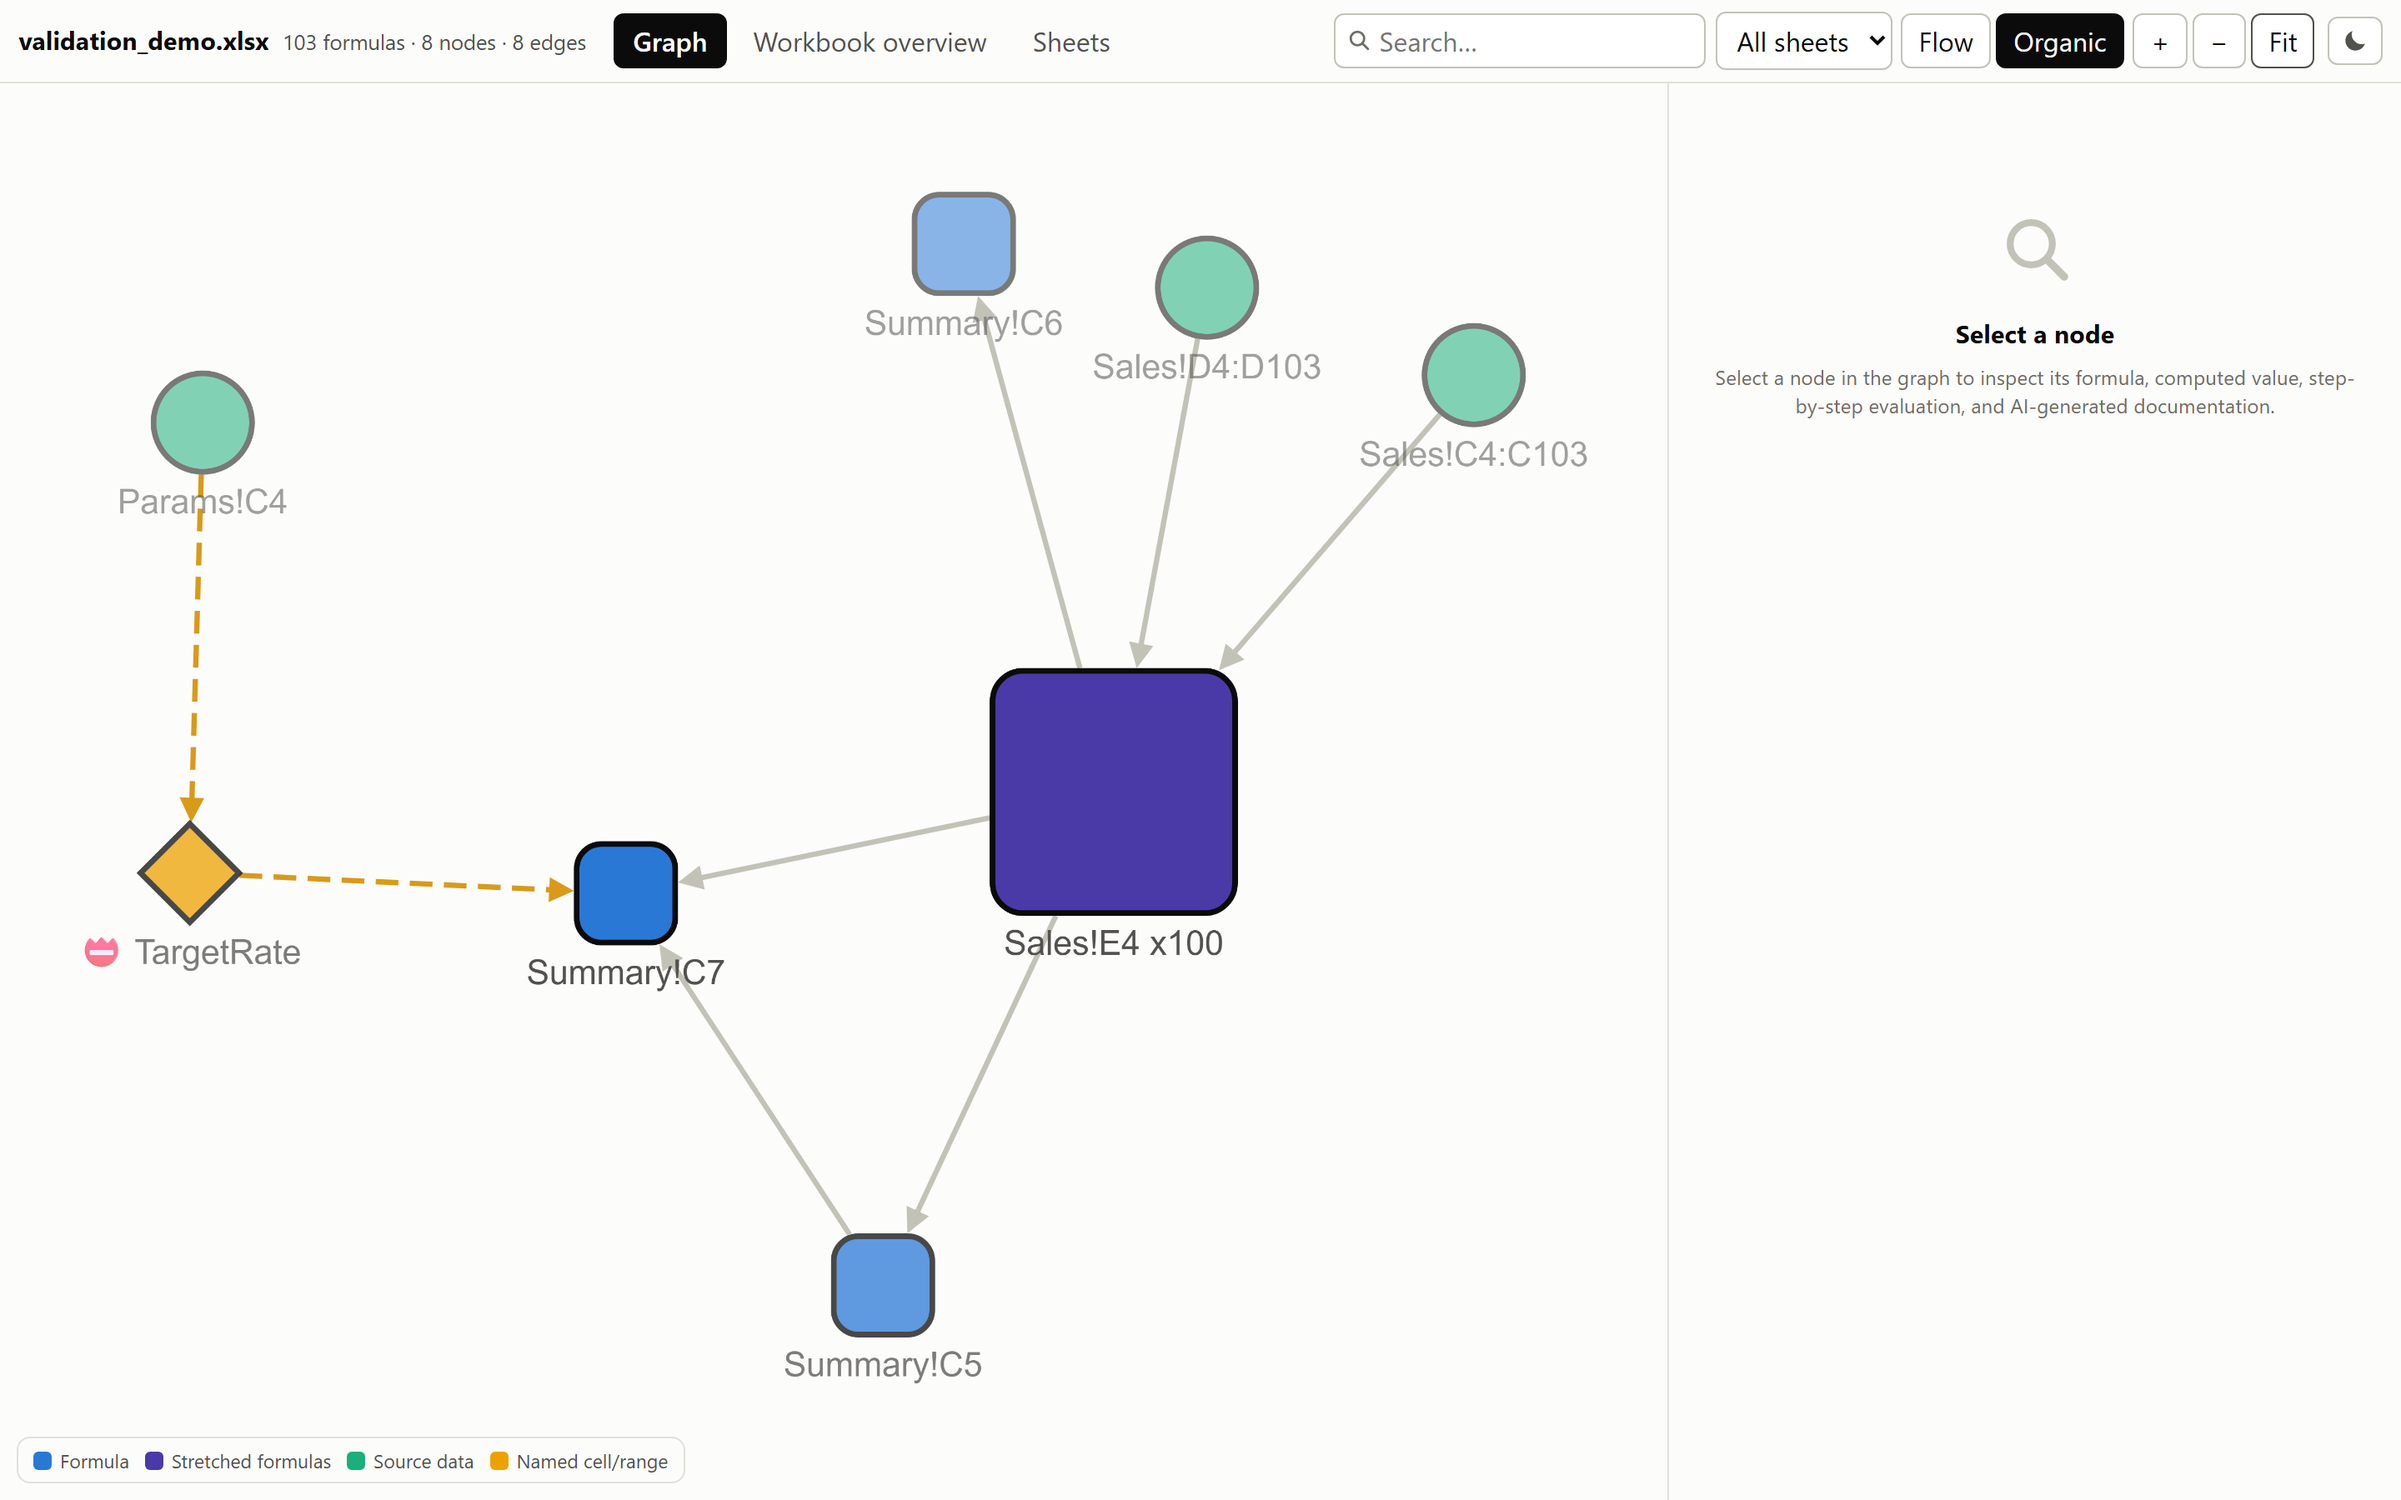
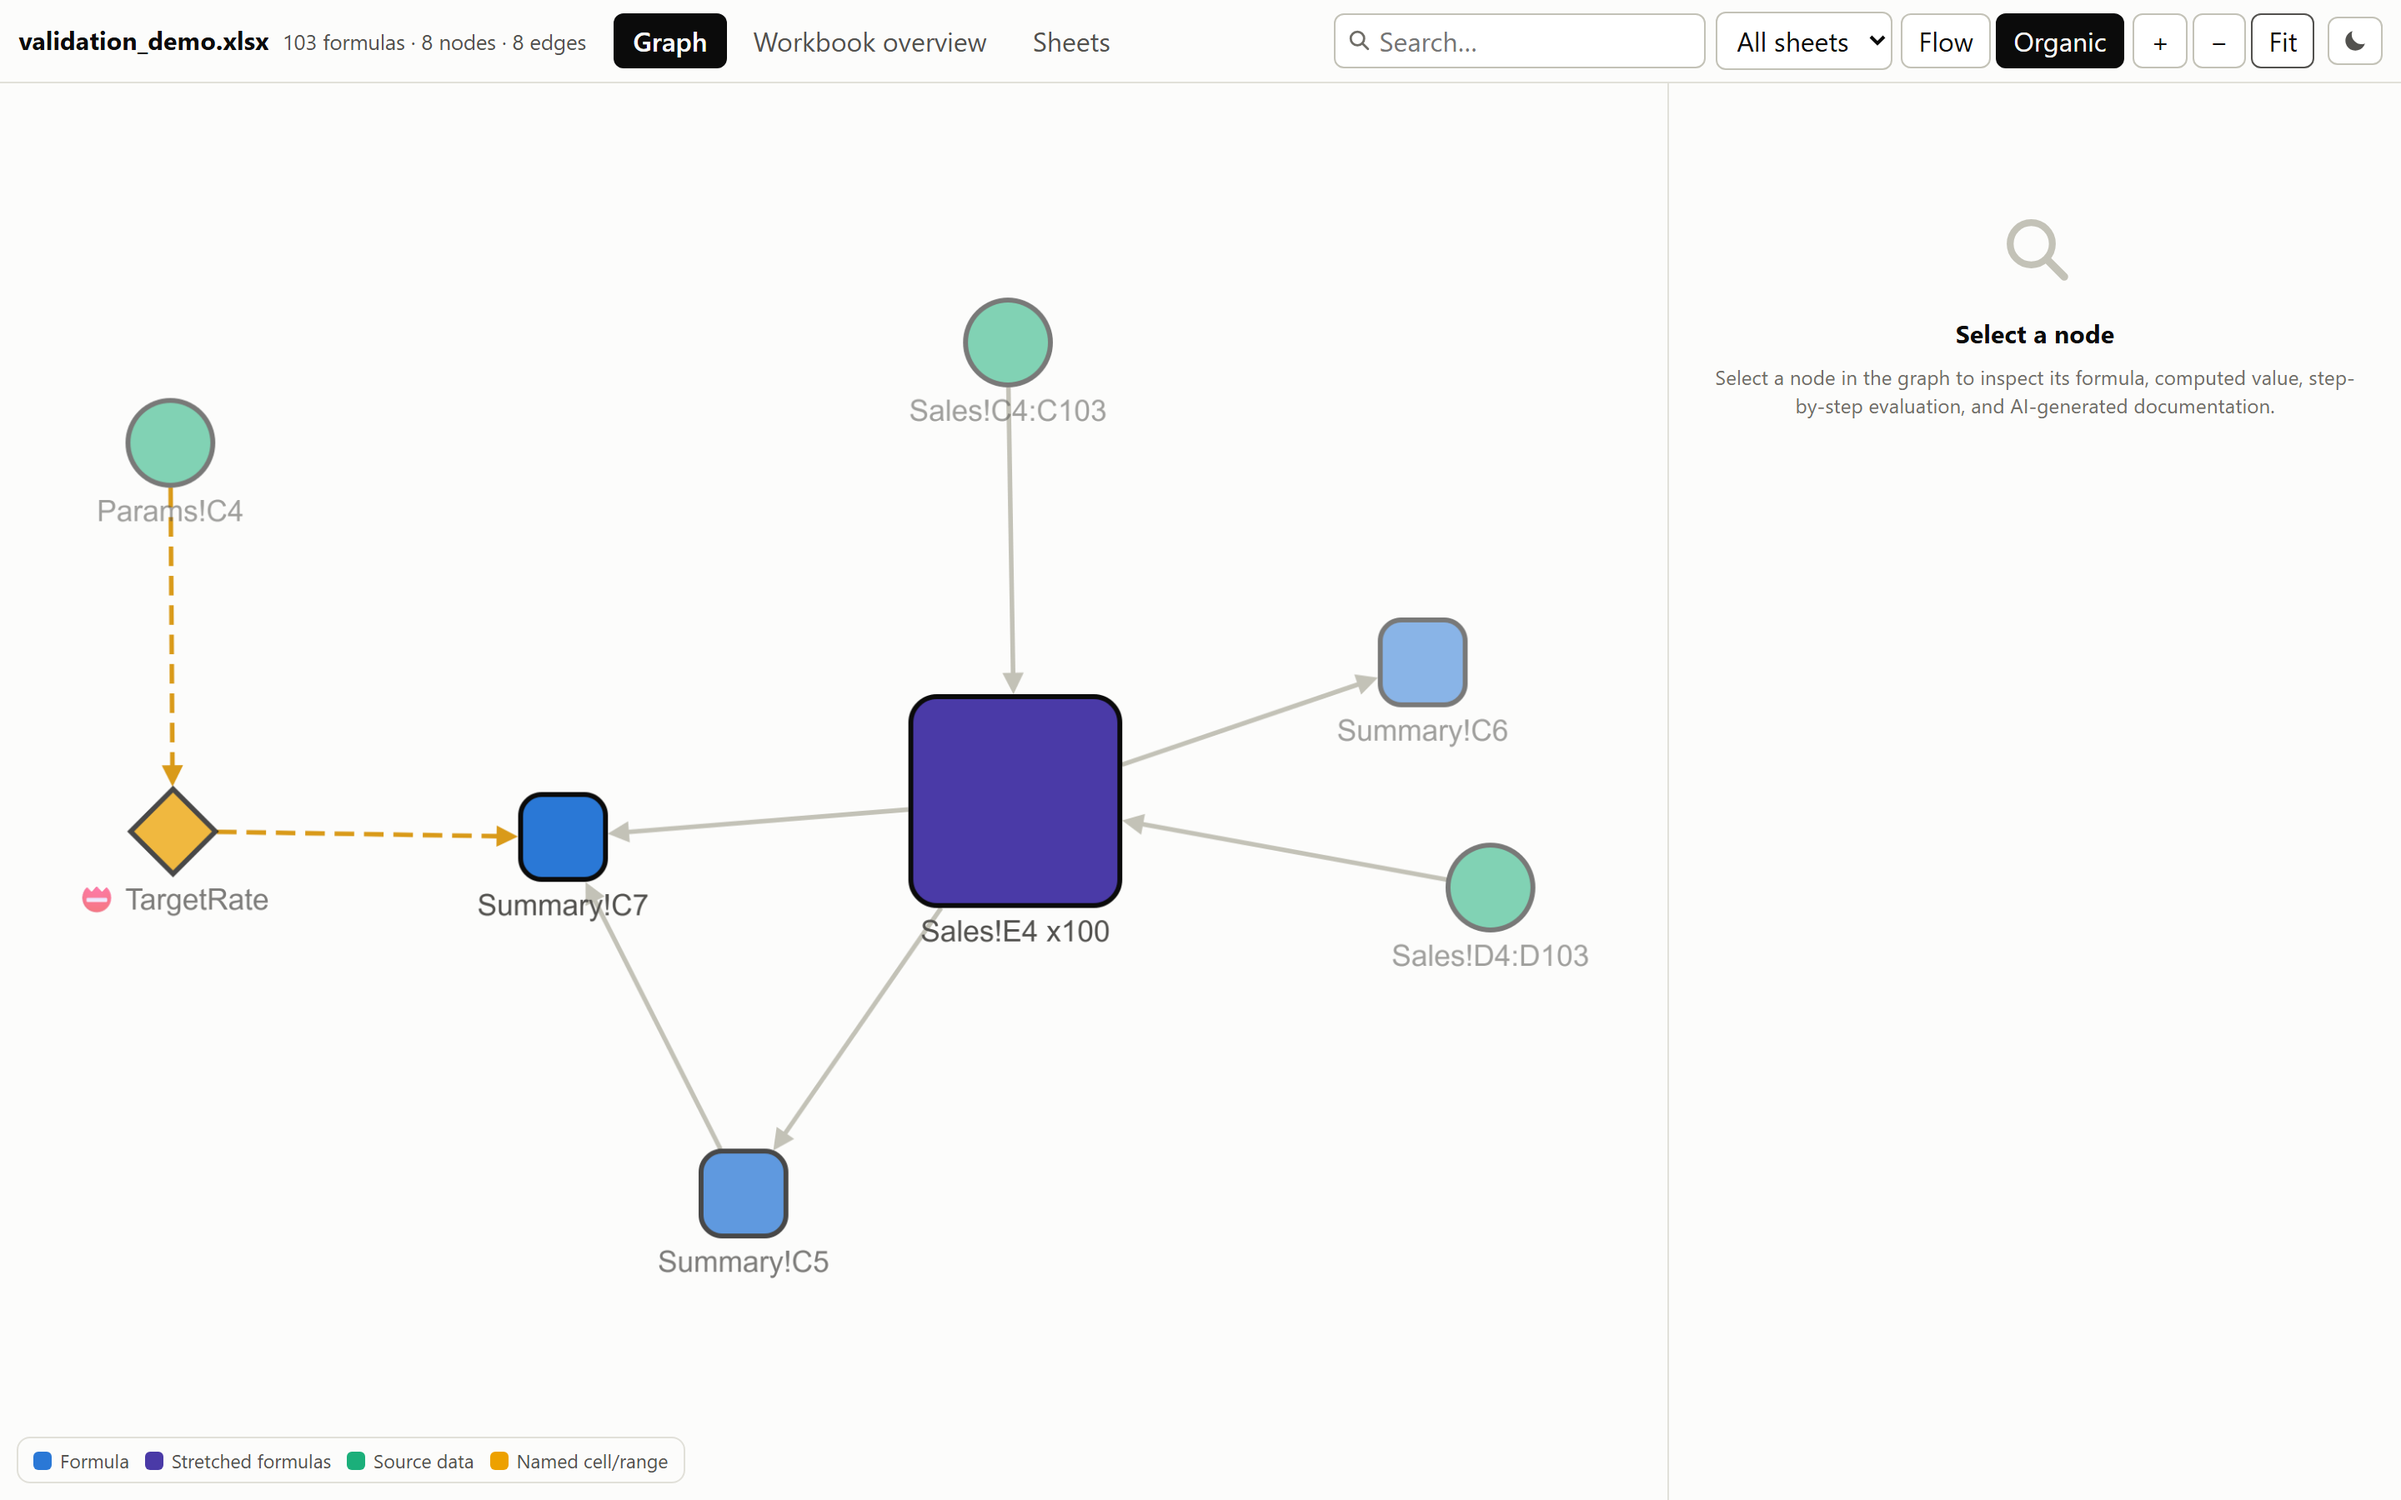
review fixes: harden table insertion against weak-model output
- document_workbook guards an empty/None provider response like
  document_nodes does
- placeholders are stripped even when the model omits the json_tables
  block entirely; multiple blocks are all consumed and merged; the
  block tag matches case-insensitively
- numeric alignment no longer triggers on versions ('1.2.3') or dates
- viewer: node.far declared before node:selected so the selection's
  label always wins; .lin-mdt tables size to content so wide ones
  actually scroll
- make_dense_demo.py gets the scripts/ docstring convention
- tests pin every case above

diff --git a/src/linexcel/assets/viewer.html b/src/linexcel/assets/viewer.html
@@ -308,7 +308,9 @@
      than letting a wide table push the panel open; cells wrap instead of
      truncating. */
   .lin-mdt { display: block; overflow-x: auto; max-width: 100%; margin: .35rem 0; }
-  .lin-mdt table { border-collapse: collapse; font-size: .76rem; width: 100%; }
+  /* No width: the table sizes to its content, narrow tables stay compact
+     and genuinely wide ones engage the wrapper's scroll. */
+  .lin-mdt table { border-collapse: collapse; font-size: .76rem; }
   .lin-mdt th, .lin-mdt td {
     border: 1px solid var(--hair); padding: .22rem .5rem;
     vertical-align: top; overflow-wrap: anywhere;
@@ -1268,11 +1270,13 @@
       { selector: 'edge.query-load', style: { 'line-color': PALETTE.magenta,
         'target-arrow-color': PALETTE.magenta } },
       { selector: 'edge.approx', style: { opacity: 0.55 } },
-      { selector: 'node:selected', style: { 'border-width': 3.5,
-        'border-color': t.ink, color: t.ink, 'font-size': 11, 'text-opacity': 1 } },
       // Level of detail: at wide zoom every label collides with its
       // neighbours, so zooming out fades them all but the selection's.
+      // Declared *before* node:selected so the selection's text-opacity: 1
+      // always wins over a stale .far class.
       { selector: 'node.far', style: { 'text-opacity': 0 } },
+      { selector: 'node:selected', style: { 'border-width': 3.5,
+        'border-color': t.ink, color: t.ink, 'font-size': 11, 'text-opacity': 1 } },
       { selector: '.dimmed', style: { opacity: 0.12 } },
       { selector: 'edge.hl', style: { width: 2.6, opacity: 1 } }
     ];

diff --git a/src/linexcel/aidoc.py b/src/linexcel/aidoc.py
@@ -778,9 +778,12 @@ def _compact_preview(rows: list[dict[str, Any]]) -> list[dict[str, Any]]:
 # below render the Markdown deterministically. Malformed JSON costs the
 # tables, never the prose.
 
-_TABLE_BLOCK_RE = re.compile(r"```json_tables\s*(.*?)```", re.DOTALL)
+_TABLE_BLOCK_RE = re.compile(r"```json_tables\s*(.*?)```", re.DOTALL | re.IGNORECASE)
 _PLACEHOLDER_RE = re.compile(r"\{\{(T\d+)\}\}")
-_NUMERIC_CELL_RE = re.compile(r"[-−+]?\d[\d\s.,]*%?")
+# A quantity: optional sign, digits with optional thousands spacing, at most
+# one decimal separator, optional %. Version strings ("1.2.3") and dates
+# ("2024-01-01") deliberately fail, so they keep left alignment.
+_NUMERIC_CELL_RE = re.compile(r"[-−+]?\d[\d\s]*([.,]\d+)?%?")
 
 
 def _md_cell(value: Any) -> str:
@@ -823,20 +826,20 @@ def render_markdown_table(
 def _insert_tables(text: str) -> str:
     """Swap ``{{Tn}}`` placeholders for code-rendered Markdown tables.
 
-    The structured payload travels in a trailing ```json_tables fenced
-    block; the block itself is removed from the returned text. Unparseable
-    or incomplete payloads degrade to prose — a placeholder whose table is
-    missing is dropped, never left as raw braces in the output.
+    The structured payload travels in trailing ```json_tables fenced
+    blocks; the blocks themselves are removed from the returned text.
+    Unparseable or incomplete payloads degrade to prose — a placeholder
+    whose table is missing is dropped, never left as raw braces in the
+    output, and neither is a placeholder that arrived with no block at all.
     """
-    match = _TABLE_BLOCK_RE.search(text)
-    if match is None:
-        return text.strip()
     tables: dict[str, str] = {}
-    try:
-        payload = json.loads(match.group(1))
-    except (ValueError, TypeError):
-        payload = None
-    if isinstance(payload, list):
+    for match in _TABLE_BLOCK_RE.finditer(text):
+        try:
+            payload = json.loads(match.group(1))
+        except (ValueError, TypeError):
+            continue
+        if not isinstance(payload, list):
+            continue
         for entry in payload:
             if not isinstance(entry, dict):
                 continue
@@ -854,7 +857,7 @@ def _insert_tables(text: str) -> str:
                 tables[tid] = render_markdown_table(
                     cols, rows, caption=caption if isinstance(caption, str) else None
                 )
-    text = text[: match.start()] + text[match.end() :]
+    text = _TABLE_BLOCK_RE.sub("", text)
     text = _PLACEHOLDER_RE.sub(lambda m: tables.get(m.group(1), ""), text)
     # A dropped placeholder leaves a blank run behind; collapse it.
     return re.sub(r"\n{3,}", "\n\n", text).strip()
@@ -912,6 +915,8 @@ def document_workbook(
         raise AiDocError(f"AI documentation failed: {exc}") from exc
     if usage is not None:
         usage.add(call_usage)
+    if not text or not text.strip():
+        return "(AI returned empty response)"
     return _insert_tables(text)
 
 

diff --git a/tests/test_aidoc_tables.py b/tests/test_aidoc_tables.py
@@ -82,7 +82,45 @@ class TestInsertTables:
     def test_text_without_a_block_is_returned_stripped(self):
         assert _insert_tables("  plain markdown\n") == "plain markdown"
 
+    def test_placeholder_without_any_block_is_stripped(self):
+        # The model followed the placeholder rule but forgot the payload:
+        # the raw braces must not leak into the rendered document.
+        out = _insert_tables("Prose.\n\n{{T1}}\n\nMore.")
+        assert "{{T1}}" not in out
+        assert "Prose." in out and "More." in out
+
+    def test_multiple_blocks_are_all_consumed(self):
+        one = json.dumps([{"id": "T1", "columns": ["A"], "rows": [[1]]}])
+        two = json.dumps([{"id": "T2", "columns": ["B"], "rows": [[2]]}])
+        text = (
+            "{{T1}}\n```json_tables\n" + one + "\n```\n"
+            "middle\n{{T2}}\n```json_tables\n" + two + "\n```"
+        )
+        out = _insert_tables(text)
+        assert "```" not in out
+        assert "| A |" in out and "| B |" in out
+        assert "middle" in out
+
+    def test_block_tag_is_case_insensitive(self):
+        payload = json.dumps([{"id": "T1", "columns": ["A"], "rows": [[1]]}])
+        out = _insert_tables("{{T1}}\n```JSON_TABLES\n" + payload + "\n```")
+        assert "| A |" in out and "```" not in out
+
     def test_entries_with_wrong_shape_are_skipped(self):
         payload = [{"id": "T1", "columns": "oops", "rows": []}, "junk", 42]
         text = "Hi.\n```json_tables\n" + json.dumps(payload) + "\n```"
         assert _insert_tables(text) == "Hi."
+
+
+class TestNumericAlignment:
+    def test_version_strings_are_not_quantities(self):
+        md = render_markdown_table(["Dep"], [["1.2.3"], ["2.0.1"]])
+        assert "|---|" in md  # left-aligned, not right
+
+    def test_dates_are_not_quantities(self):
+        md = render_markdown_table(["Day"], [["2024-01-01"]])
+        assert "|---|" in md
+
+    def test_grouped_and_decimal_numbers_are_quantities(self):
+        md = render_markdown_table(["Amount"], [["1 000"], ["1 234,56"]])
+        assert "|---:|" in md

diff --git a/scripts/make_dense_demo.py b/scripts/make_dense_demo.py
@@ -1,4 +1,13 @@
-# One-shot: build a wide workbook (~180 lineage nodes) to stress the viewer.
+#!/usr/bin/env python3
+"""Build a wide workbook (~140 lineage nodes) to stress the viewer.
+
+Many stretched groups across 12 data sheets, cross-sheet summaries and a
+chaining top sheet: enough to trigger the viewer's wide-graph defaults
+(flow layout, label level-of-detail) without needing a real-world file.
+
+    uv run python scripts/make_dense_demo.py     # writes dense_check.xlsx
+"""
+
 from openpyxl import Workbook
 from openpyxl.workbook.defined_name import DefinedName
 
